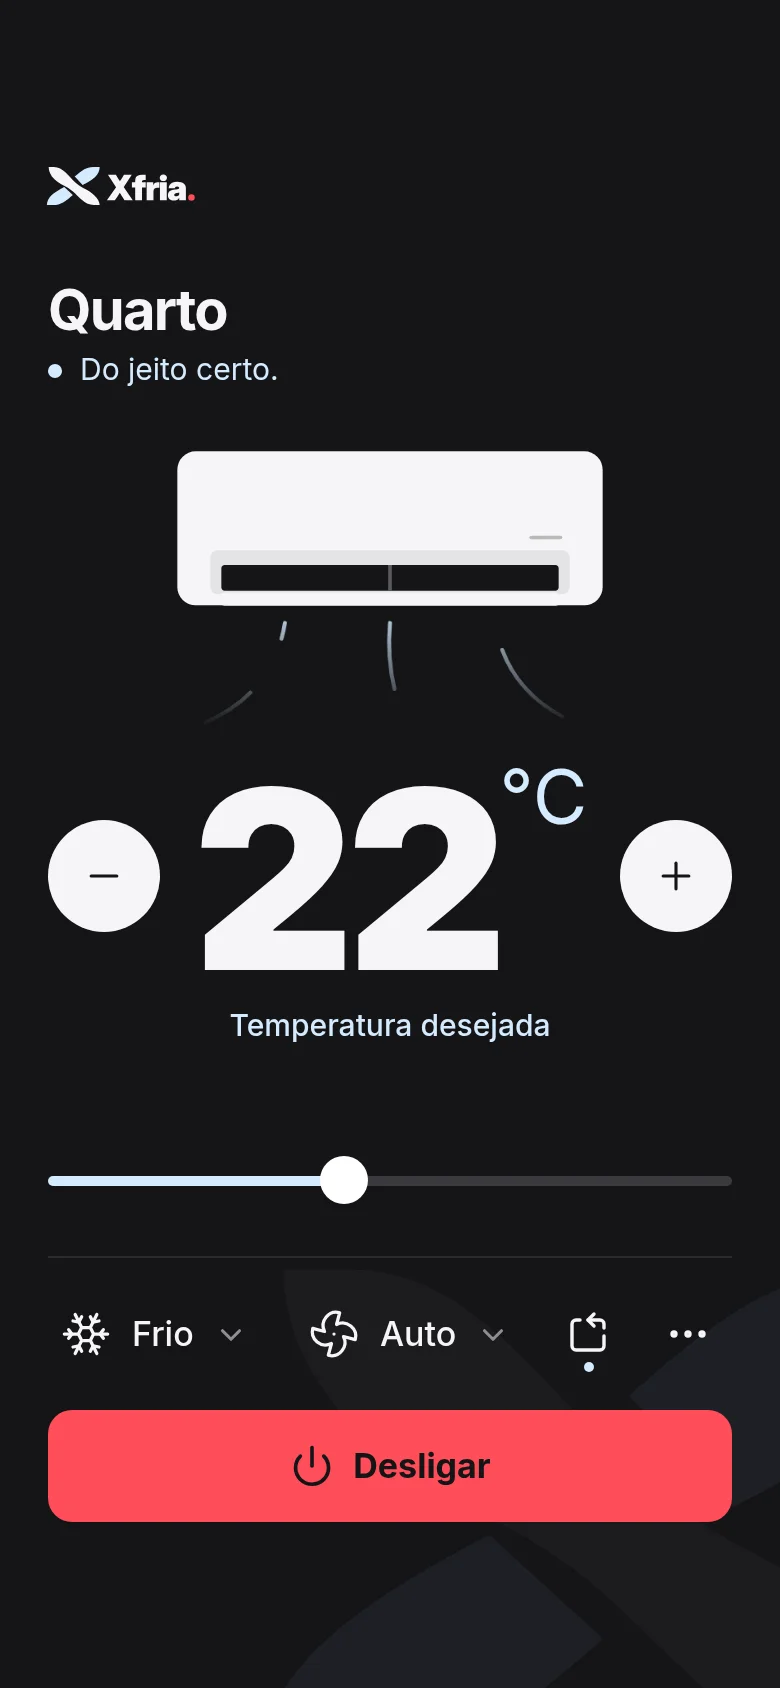
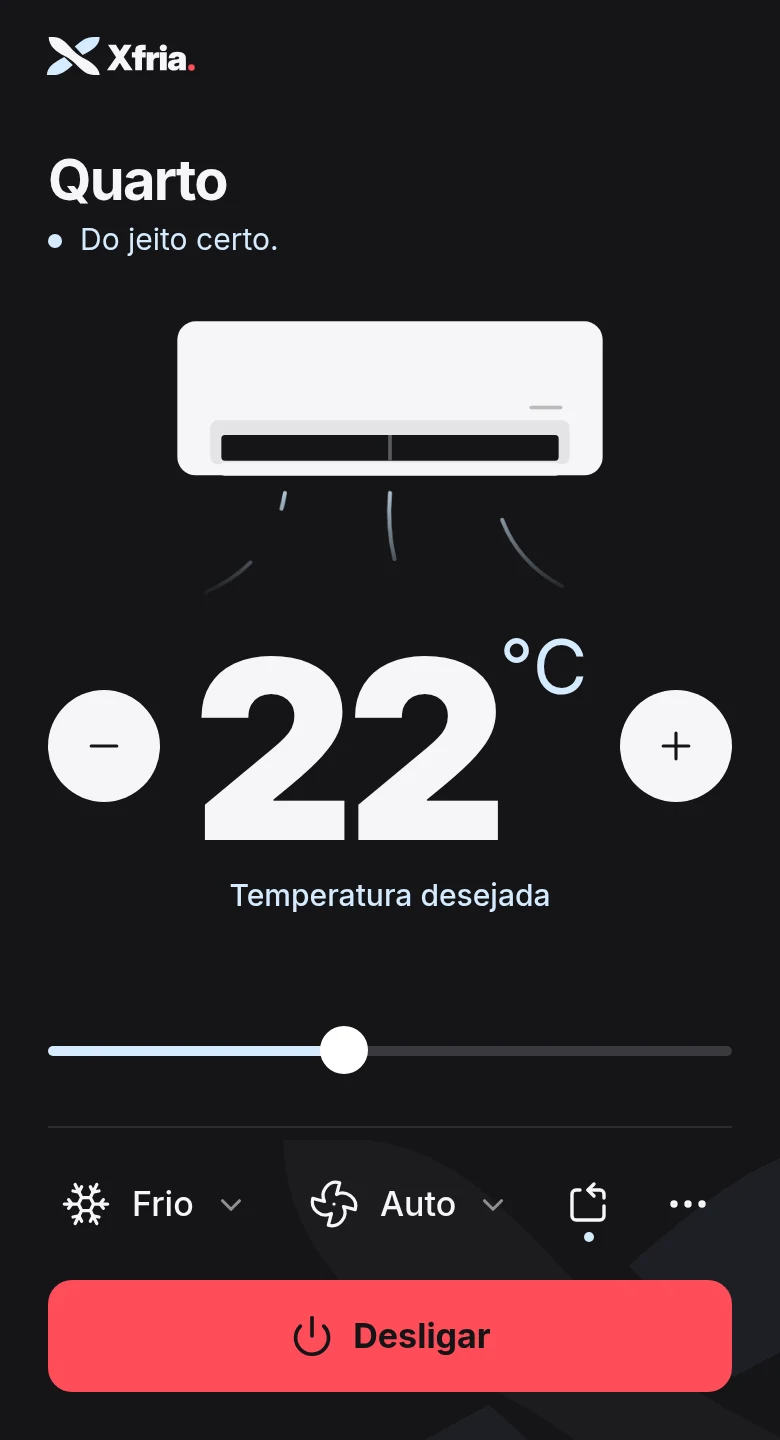
fix: card do celular mostra o painel inteiro

diff --git a/app/site/site.css b/app/site/site.css
@@ -403,6 +403,7 @@ section {
 }
 
 .place-art {
+  position: relative;
   display: grid;
   place-items: center;
   aspect-ratio: 4 / 3;
@@ -418,10 +419,16 @@ section {
   border-radius: var(--radius);
 }
 
+/* O celular é alto: aparece inteiro, na altura do card. */
 .place-art img[src*="celular"] {
-  width: 44%;
-  margin-top: 30%;
-  border-radius: 24px 24px 0 0;
+  position: absolute;
+  top: 7%;
+  left: 50%;
+  width: auto;
+  height: 86%;
+  translate: -50% 0;
+  border: 1px solid var(--line);
+  border-radius: 20px;
 }
 
 .place p {

diff --git a/app/index.html b/app/index.html
@@ -130,7 +130,7 @@
           </li>
           <li class="place">
             <div class="place-art">
-              <img src="/site/celular.webp" alt="Xfria aberto no celular" width="780" height="1688" loading="lazy" />
+              <img src="/site/celular.webp" alt="Xfria aberto no celular" width="780" height="1440" loading="lazy" />
             </div>
             <h3>Celular</h3>
             <p>Abra <strong>xfria.storell.dev.br/painel</strong> e adicione à tela inicial. Funciona fora de casa também.</p>
